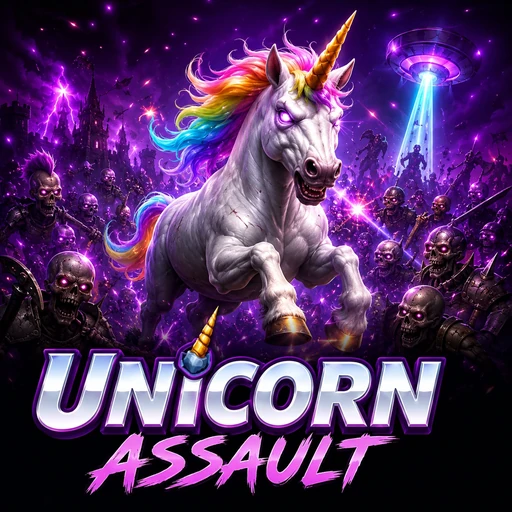
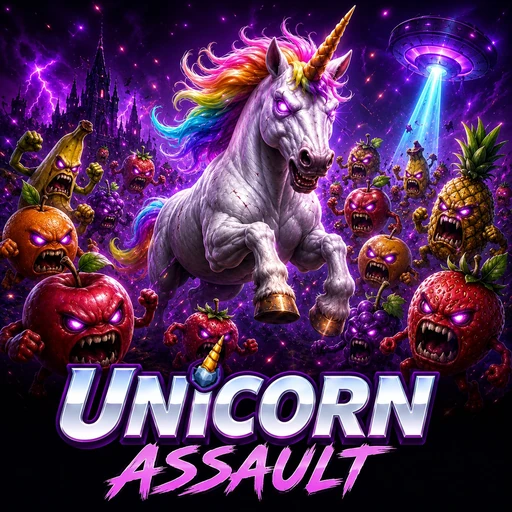
Hub v0.5.4: swap in new Unicorn Assault tile art
Replace unicorn-horde/tile.webp with the new icon (rainbow unicorn vs
evil-fruit horde), 512x512 WebP via the same PIL pipeline.

diff --git a/index.html b/index.html
@@ -300,7 +300,7 @@
 
     </div>
 
-    <footer>Big Run Studios — CrashArcade · Internal Prototype · v0.5.3</footer>
+    <footer>Big Run Studios — CrashArcade · Internal Prototype · v0.5.4</footer>
   </div>
 
   <nav class="botnav" aria-label="Primary">